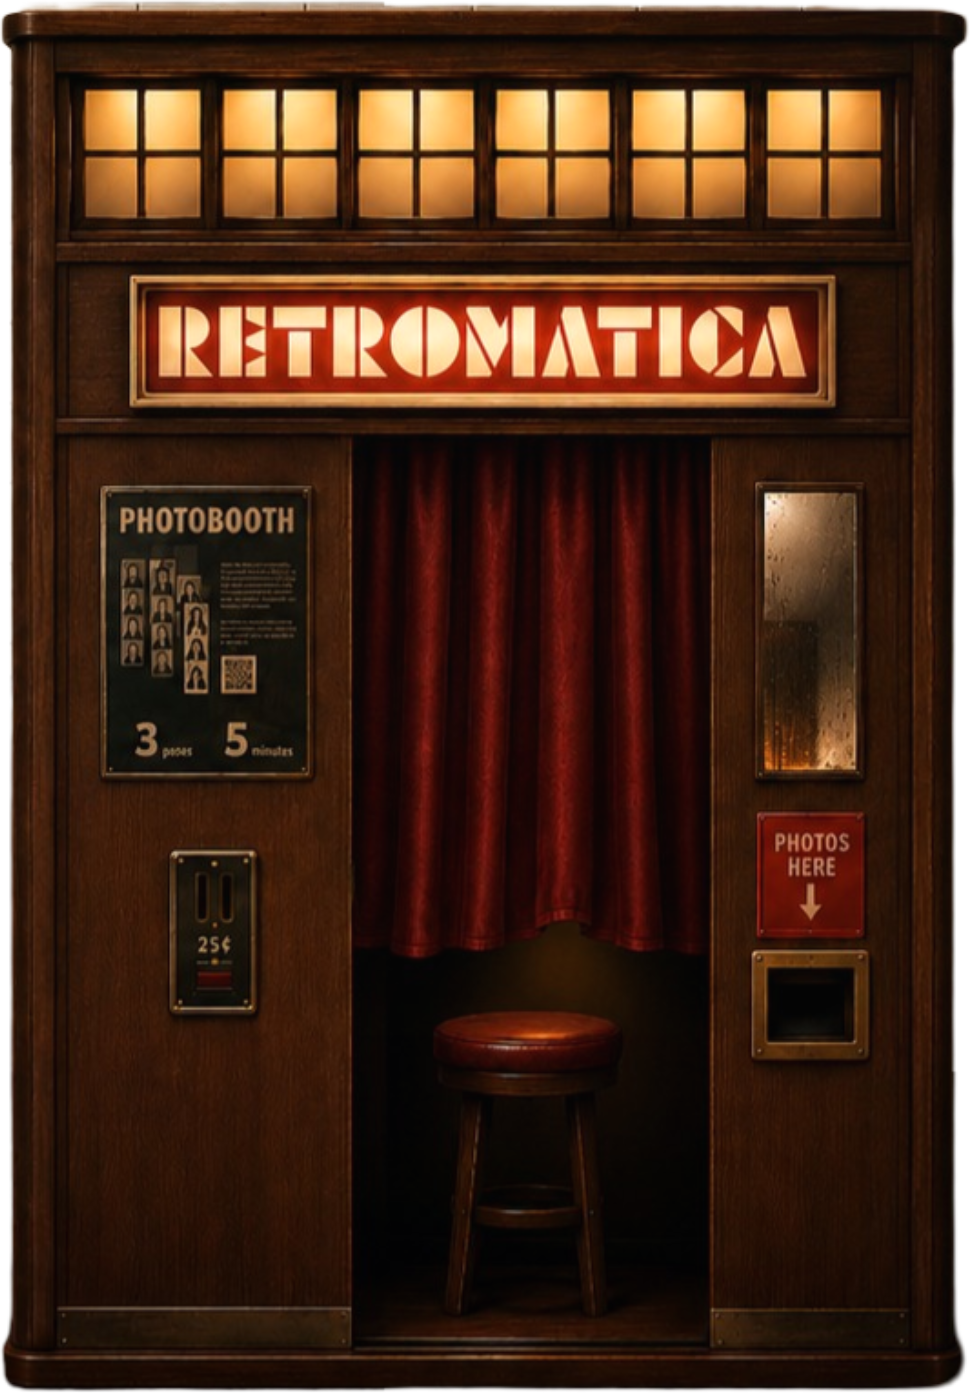
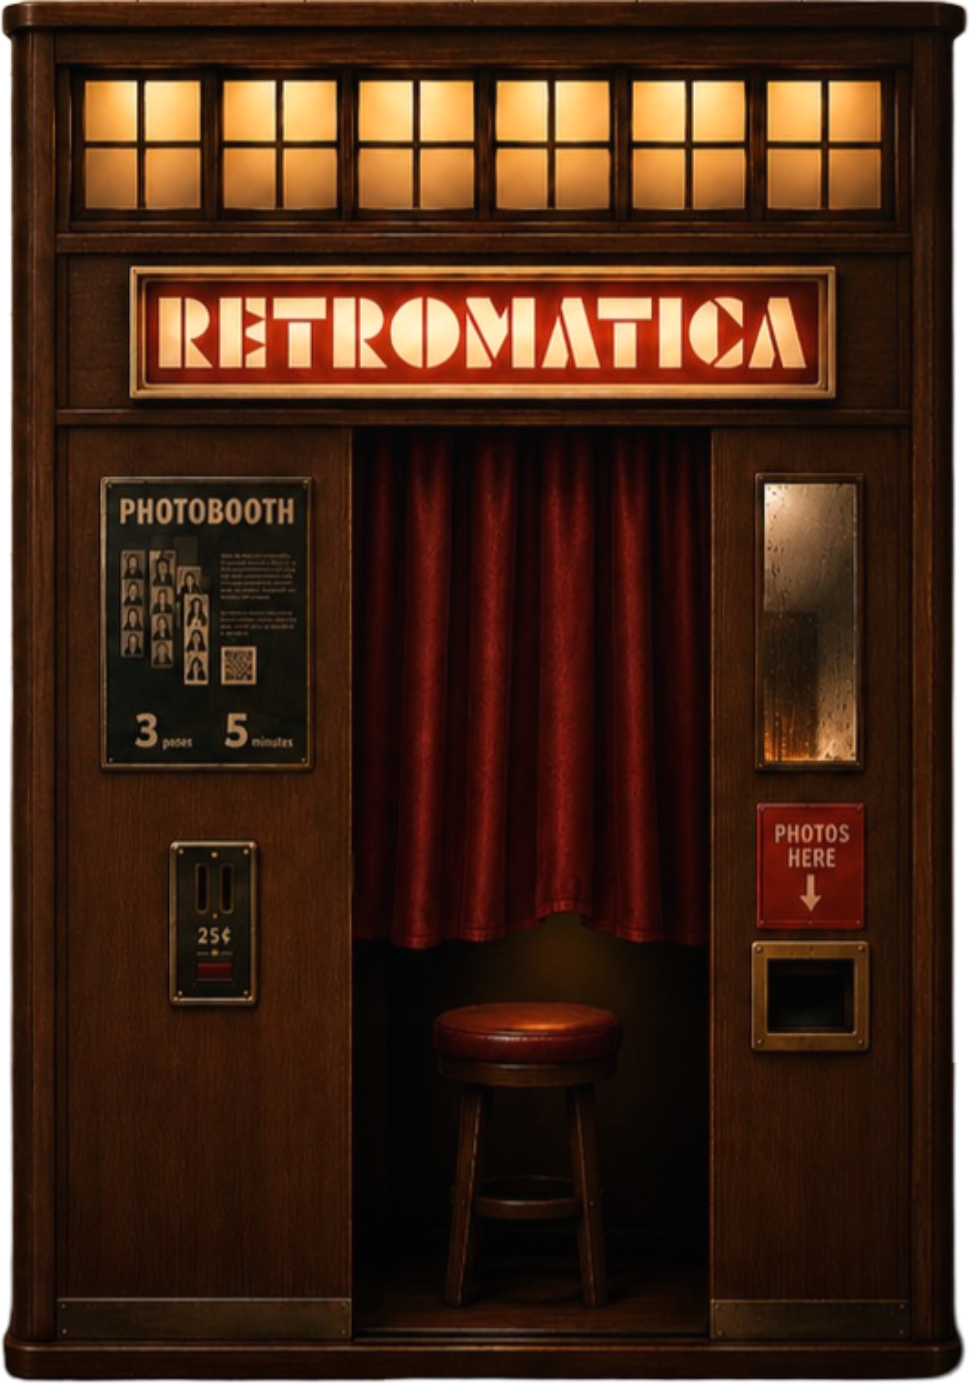
style: apply new trybooth image and lower/enlarge stool

diff --git a/src/components/LandingPage.tsx b/src/components/LandingPage.tsx
@@ -91,9 +91,9 @@ export default function LandingPage() {
             className="absolute z-20"
             style={{
               // Approximate percentage placement
-              left: '23%',
-              top: '45%',
-              width: '22%',
+              left: '21%',
+              top: '60%',
+              width: '25%',
             }}
           >
             <motion.div
